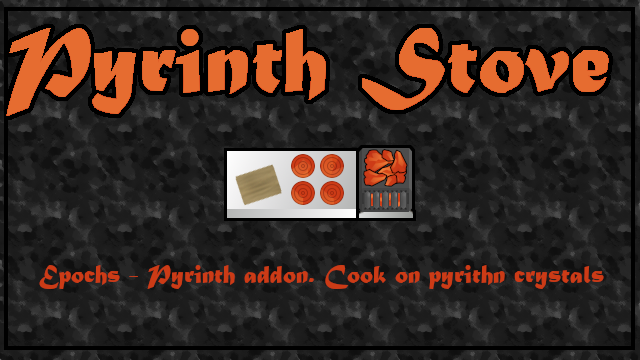
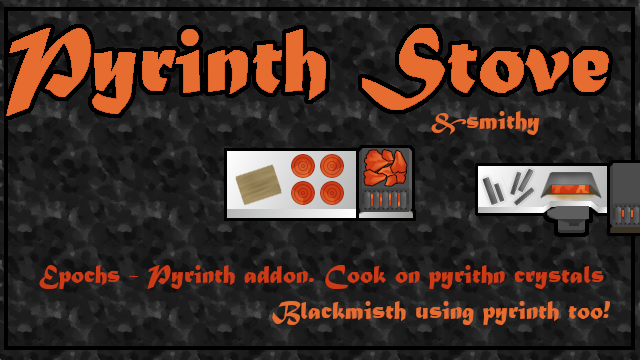
1.2 - added Smithy, fixed missing recipes bug, added effects

Changed region(s): [[0.7188, 0.4278, 1.0, 0.6722], [0.4062, 0.825, 0.9688, 0.9167], [0.6562, 0.3056, 0.8438, 0.3972]]

diff --git a/Source/PyrinthStove/CompRefuelableConfigurableSmithy.cs b/Source/PyrinthStove/CompRefuelableConfigurableSmithy.cs
@@ -1,0 +1,26 @@
+using RimWorld;
+using Verse;
+
+namespace PyrinthStove
+{
+    public class CompRefuelableConfigurableSmithy : CompRefuelable
+    {
+        public new CompProperties_Refuelable_ConfigurableSmithy Props => (CompProperties_Refuelable_ConfigurableSmithy) this.props;
+        
+        public override void CompTick()
+        {
+            if (!PyrinthStoveModSettings.fuelConsumptionForSmithy)
+                return;
+            base.CompTick();
+        }
+
+        public override string CompInspectStringExtra()
+        {
+            var inspect = base.CompInspectStringExtra();
+            if (!PyrinthStoveModSettings.fuelConsumptionForSmithy)
+                inspect = (string) (inspect + ("\n" + "PyrinthStoveModSettings_TurnedOff_Inspect".Translate()));
+            return inspect;
+        }
+        
+    }
+}

diff --git a/Source/PyrinthStove/PyrinthStoveMod.cs b/Source/PyrinthStove/PyrinthStoveMod.cs
@@ -44,6 +44,21 @@ namespace PyrinthStove
             
             listingStandard.GapLine();
             
+            listingStandard.Label("PyrinthStoveModSettings_Smithy_label".Translate());
+
+            listingStandard.Indent(gapWidth);
+            listingStandard.ColumnWidth -= gapWidth;
+            
+            listingStandard.CheckboxLabeled(
+                "PyrinthStoveModSettings_Smithy_fuelConsumptionForSmithy".Translate(),
+                ref PyrinthStoveModSettings.fuelConsumptionForSmithy,
+                "PyrinthStoveModSettings_Smithy_fuelConsumptionForSmithy_tooltip".Translate());
+            
+            listingStandard.Outdent(gapWidth);
+            listingStandard.ColumnWidth += gapWidth;
+            
+            listingStandard.GapLine();            
+            
             listingStandard.End();
             
             base.DoSettingsWindowContents(inRect);

diff --git a/Source/PyrinthStove/CompProperties_Refuelable_ConfigurableSmithy.cs b/Source/PyrinthStove/CompProperties_Refuelable_ConfigurableSmithy.cs
@@ -1,0 +1,9 @@
+using RimWorld;
+
+namespace PyrinthStove
+{
+    public class CompProperties_Refuelable_ConfigurableSmithy : CompProperties_Refuelable
+    {
+        public CompProperties_Refuelable_ConfigurableSmithy() => this.compClass = typeof (CompRefuelableConfigurableSmithy);
+    }
+}

diff --git a/Source/PyrinthStove/CompProperties_Refuelable_ConfigurableStove.cs b/Source/PyrinthStove/CompProperties_Refuelable_ConfigurableStove.cs
@@ -1,0 +1,9 @@
+using RimWorld;
+
+namespace PyrinthStove
+{
+    public class CompProperties_Refuelable_ConfigurableStove : CompProperties_Refuelable
+    {
+        public CompProperties_Refuelable_ConfigurableStove() => this.compClass = typeof (CompRefuelableConfigurableStove);
+    }
+}

diff --git a/Source/PyrinthStove/PyrinthStoveModSettings.cs b/Source/PyrinthStove/PyrinthStoveModSettings.cs
@@ -5,10 +5,12 @@ namespace PyrinthStove
     public class PyrinthStoveModSettings : ModSettings
     {
         public static bool fuelConsumptionForStove = true;
+        public static bool fuelConsumptionForSmithy = true;
 
         public override void ExposeData()
         {
             Scribe_Values.Look<bool>(ref fuelConsumptionForStove, "fuelConsumptionForStove", true);
+            Scribe_Values.Look<bool>(ref fuelConsumptionForSmithy, "fuelConsumptionForSmithy", true);
             
             base.ExposeData();
         }

diff --git a/README.md b/README.md
@@ -9,7 +9,9 @@ Steam workshop link: <https://steamcommunity.com/sharedfiles/filedetails/?id=374
 
 ![](/Publishing/01_basics.png)
 
-![](/Publishing/02_config.png)
+![](/Publishing/02_smithy.png)
+
+![](/Publishing/03_config.png)
 
 ## License
 